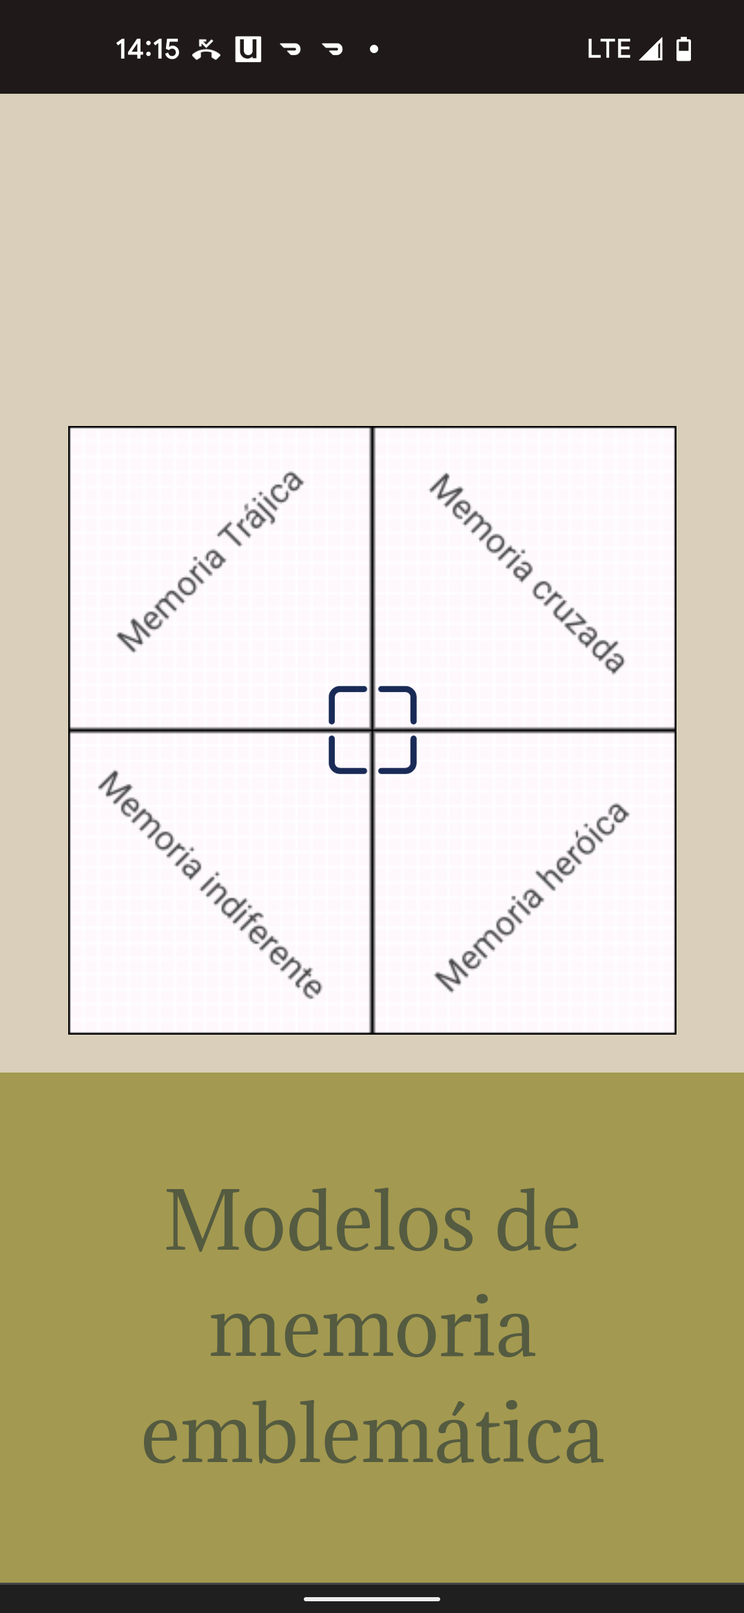
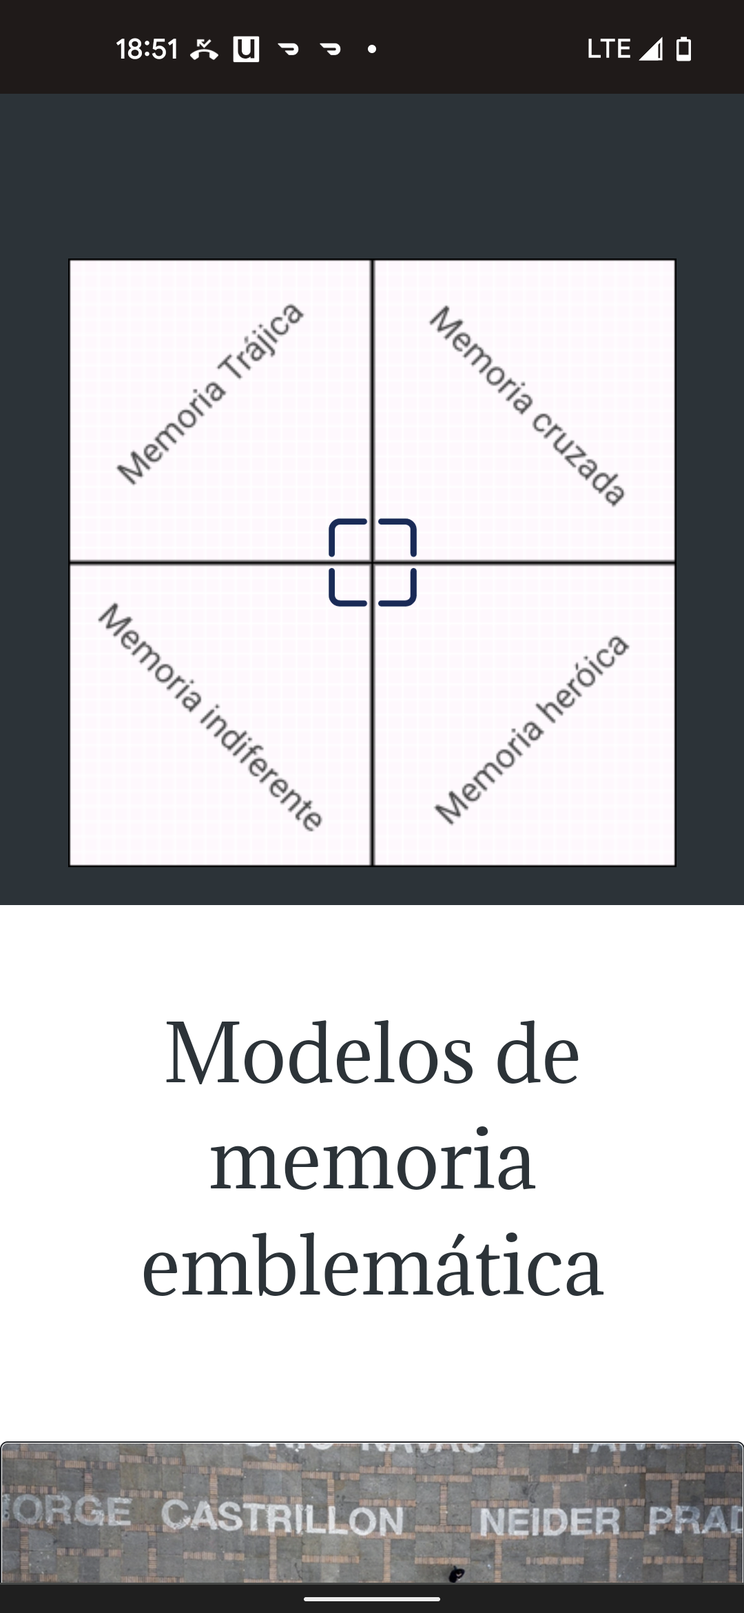
new

diff --git a/index7.html b/index7.html
@@ -19,7 +19,7 @@
 </head>
 
 <body>
-    <header class="header-blue" style="height: 2300px;padding: 0px;color: rgb(219,207,184);background: rgb(219,207,184);">
+    <header class="header-blue" style="height: 2000px;padding: 0px;color: rgb(219,207,184);background: whitesmoke;">
         <nav class="navbar navbar-light navbar-expand-md sticky-top navigation-clean-search" style="background: rgba(250,250,255,0.53);border-style: none;">
             <div class="container-fluid"><a class="navbar-brand" href="index.html" style="font-family: Adamina, serif;background: url(&quot;assets/img/Memorias%20pal%20dialogo%202.png&quot;);height: 60px;color: rgba(255,255,255,0);">Memorias pal diálogo</a><a href="index2.html" style="color: rgb(1,4,10);font-family: Amiri, serif;font-size: 20px;">Test</a>
                 <div class="dropdown"><a class="dropdown-toggle" aria-expanded="false" data-bs-toggle="dropdown" href="#" style="color: rgb(4,4,4);font-family: Amiri, serif;font-size: 20px;">Acerca de</a>
@@ -42,14 +42,14 @@
                 <div class="col-md-6">
                     <h2 style="color: rgb(42,51,57);">¿Cómo llegué aquí?</h2>
                     <header></header>
-                    <p style="color: rgb(82,91,61);">Los individuos que reconocen la responsabilidad del Estado en la violación de derechos humanos y que se inclinan a pensar en que<br> las causas del conflicto armado colombiano están relacionadas con el carácter asocial o violento de las y los colombianos en general, y de los actores armados legales e ilegales en particular, se representan en el modelo de memoria trágica. <br><br><br>&nbsp;<br><br><br><br><br><br><br></p>
+                    <p style="color: rgb(24,20,20);">Los individuos que reconocen la responsabilidad del Estado en la violación de derechos humanos y que se inclinan a pensar en que las causas del conflicto armado colombiano están relacionadas con el carácter asocial o violento de las y los colombianos en general, y de los actores armados legales e ilegales en particular, se representan en el modelo de memoria trágica. &nbsp;</p>
                 </div>
-                <div class="col-md-6"><img src="assets/img/Memoria%20trágica.jpg" style="width: 476px;"></div>
+                <div class="col-md-6"><img src="images\Quebrantos.webp" style="width: 476px;"></div>
             </div>
         </div>
         <div class="container">
             <div class="row">
-                <div class="col-md-12" style="background: rgb(219,207,184);height: 131px;color: rgb(23,19,13);">
+                <div class="col-md-12" style="background: whitesmoke;height: 131px;color: rgb(23,19,13); padding-top: 5rem;">
                     <h2 class="text-center" style="color: rgb(24,20,20);">¿Qué quiere decir?</h2>
                     <p>La memoria trágica da cuenta de una historia de violencia sin cuartel especialmente dirigida contra la población civil donde los detalles sobre la naturaleza de los perpetradores o las causas sociales y económicas subyacentes a los actos violentos ocurridos en el marco del conflicto resultan irrelevantes de cara al desastre, la devastación, y el dolor.<br></p>
                 </div>
@@ -58,21 +58,21 @@
         <div class="container">
             <div class="row">
                 <div class="col-md-6">
-                    <p style="border-color: rgb(21,18,13);color: rgb(11,10,7);">En la memoria trágica la violencia se parece más a un fenómeno<br> natural impersonal que a la acción de agrupaciones humanas claramente identificables. Esto se explica por dos razones. En primer lugar, los actos violentos que sufren las víctimas parecen ser arbitrariedades que solo hablan de la maldad de los violentos. La ausencia de la más mínima consideración por la dignidad de la vida humana, y lo fortuito de los ataques a la población civil solo confirman la irracionalidad y la crueldad que está detrás de las<br> acciones de los armados. En segundo lugar, muchas de las víctimas de la violencia en Colombia nunca saben quién fue el perpetrador, o han sido tocadas por tantas agrupaciones armadas que sentarse a preguntar quién fue el perpetrador puede resultar sencillamente inútil para dar un sentido general a la tragedia.<br></p>
+                    <p style="border-color: rgb(21,18,13);color: rgb(11,10,7); padding-top: 5rem;">En la memoria trágica la violencia se parece más a un fenómeno natural impersonal que a la acción de agrupaciones humanas claramente identificables. Esto se explica por dos razones. En primer lugar, los actos violentos que sufren las víctimas parecen ser arbitrariedades que solo hablan de la maldad de los violentos. La ausencia de la más mínima consideración por la dignidad de la vida humana, y lo fortuito de los ataques a la población civil solo confirman la irracionalidad y la crueldad que está detrás de las acciones de los armados. En segundo lugar, muchas de las víctimas de la violencia en Colombia nunca saben quién fue el perpetrador, o han sido tocadas por tantas agrupaciones armadas que sentarse a preguntar quién fue el perpetrador puede resultar sencillamente inútil para dar un sentido general a la tragedia.</p>
                 </div>
-                <div class="col"><img src="assets/img/imago0095070433w.jpg" style="width: 439px;"></div>
+                <div class="col"><img src="images\Memoria trágica.jpg" style="width: 439px; padding-top: 5rem;"></div>
             </div>
         </div>
         <div class="container">
             <div class="row">
                 <div class="col-md-12">
-                    <p style="color: rgb(16,13,8);">Es posible que la mejor palabra para describir el conflicto armado colombiano desde este modelo de memoria emblemática sea el horror o la tragedia, y que la violencia y sus consecuencias se tomen como un indicador definitivo de la esencia colombiana. En este modelo se reconoce que el Estado colombiano ha jugado un papel claro en la victimización de la población civil, así como los actores armados ilegales. No hay héroes en ninguna parte. De la misma forma no hay una posición política clara en contra del orden social, económico y cultural establecido. Debido a la fuerza de la violencia sobre los cuerpos de las víctimas, o sencillamente porque esos temas no pueden explicar las acciones de los violentos, la memoria trágica asume que el mal es el producto de algún rasgo esencial de lo colombiano. No hay mayor consenso sobre si ese rasgo puede transformarse o no, pero cuando se asume que sí, la justicia en forma de castigos a los violentos y reparaciones a las víctimas se asume como deseable.<br></p>
+                    <p style="color: rgb(16,13,8); padding-top: 5rem;">Es posible que la mejor palabra para describir el conflicto armado colombiano desde este modelo de memoria emblemática sea el horror o la tragedia, y que la violencia y sus consecuencias se tomen como un indicador definitivo de la esencia colombiana. En este modelo se reconoce que el Estado colombiano ha jugado un papel claro en la victimización de la población civil, así como los actores armados ilegales. No hay héroes en ninguna parte. De la misma forma no hay una posición política clara en contra del orden social, económico y cultural establecido. Debido a la fuerza de la violencia sobre los cuerpos de las víctimas, o sencillamente porque esos temas no pueden explicar las acciones de los violentos, la memoria trágica asume que el mal es el producto de algún rasgo esencial de lo colombiano. No hay mayor consenso sobre si ese rasgo puede transformarse o no, pero cuando se asume que sí, la justicia en forma de castigos a los violentos y reparaciones a las víctimas se asume como deseable.<br></p>
                 </div>
-                <div class="col-md-12" style="background: rgb(219,207,184);height: 178px;color: rgb(23,19,13);">
+                <div class="col-md-12" style="background: whitesmoke;height: 178px;color: rgb(23,19,13); padding-top: 5rem;">
                     <h2 class="text-center" style="color: rgb(24,20,20);">¿Quiénes recuerdan el conflicto de esta forma?</h2>
                     <p>Lo más probable es que las personas con experiencias directas con la victimización y sus efectos se puedan sentir identificadas con la memoria trágica como modelo de memoria emblemática. Las víctimas del conflicto, especialmente aquellas que han sido tocadas por más de un solo grupo armado, periodistas que cubren en directo los efectos de los ataques a la población civil, o artistas solidarizados con el dolor de las víctimas pueden ser los representantes más comunes de este tipo de memoria.<br></p>
                 </div>
-                <div class="col-md-12" style="background: rgb(219,207,184);height: 317px;color: rgb(23,19,13);">
+                <div class="col-md-12" style="background: whitesmoke;height: 317px;color: rgb(23,19,13); padding-top: 3rem;">
                     <h2 class="text-center" style="color: rgb(24,20,20);">¿Dónde puedo encontrar los rastros materiales de esta<br> memoria?<br></h2>
                     <p>La memoria trágica se ve representada en múltiples sitios de memoria en Colombia organizados por víctimas de violaciones a los derechos humanos, en los trabajos artistas plásticos y literarios, y en trabajos periodísticos. A continuación, dejamos una lista de sitios donde se pueden encontrar esos rastros materiales:<br></p>
                     <ul>
@@ -99,7 +99,7 @@
                         <h3>Memorias pal diálogo</h3>
                         <p>Aplicación de código abierto sin ánimo de lucro, pero con mucho ánimo de constriur paz en Colombia.</p>
                     </div>
-                    <div class="col item social"><a href="#"><i class="icon ion-social-facebook"></i></a><a href="#"><i class="icon ion-social-twitter"></i></a><a href="#"><i class="icon ion-social-instagram"></i></a></div>
+                    <div class="col item social"><a href="https://twitter.com/chi_initiative"><i class="icon ion-social-twitter"></i></a></div>
                 </div>
                 <p class="copyright">Memorias pal diálogo © 2022</p>
             </div>

diff --git a/index4.html b/index4.html
@@ -19,7 +19,7 @@
 </head>
 
 <body>
-    <header class="header-blue" style="height: 2506px;padding: 0px;color: rgb(219,207,184);background: rgb(219,207,184);">
+    <header class="header-blue" style="height: 2506px;padding: 0px;color: rgb(219,207,184);background: whitesmoke;">
         <nav class="navbar navbar-light navbar-expand-md sticky-top navigation-clean-search" style="background: rgba(250,250,255,0.53);border-style: none;">
             <div class="container-fluid"><a class="navbar-brand" href="index.html" style="font-family: Adamina, serif;background: url(&quot;assets/img/Memorias%20pal%20dialogo%202.png&quot;);height: 60px;color: rgba(255,255,255,0);">Memorias pal diálogo</a><a href="index2.html" style="color: rgb(1,4,10);font-family: Amiri, serif;font-size: 20px;">Test</a>
                 <div class="dropdown"><a class="dropdown-toggle" aria-expanded="false" data-bs-toggle="dropdown" href="#" style="color: rgb(4,4,4);font-family: Amiri, serif;font-size: 20px;">Acerca de</a>
@@ -35,14 +35,14 @@
             </div>
         </nav>
         <div class="container hero">
-            <h1 class="text-center" style="font-family: Adamina, serif;padding: 75px;color: rgb(42,51,57);">La memoria cruzada: Memoria de una violencia estructural<br></h1>
+            <h1 class="text-center" style="font-family: Adamina, serif;padding: 75px;color: rgb(42,51,57);">La memoria heróica: Memoria de salvadores y salvados<br></h1>
         </div>
         <div class="container">
             <div class="row">
                 <div class="col-md-6">
                     <h2 style="color: rgb(42,51,57);">¿Cómo llegué aquí?</h2>
                     <header></header>
-                    <p style="color: rgb(82,91,61);">Las personas que reconocen la responsabilidad del Estado en la violación de derechos humanos y que sugieren que las causas del conflicto armado en Colombia se relacionan con estructuras políticas y económicas injustas que tensionan hasta la rotura el tejido social que posibilita la resolución pacífica de controversias, se representan con el modelo de memoria cruzada. &nbsp;<br><br><br><br><br><br><br></p>
+                    <p style="color: rgb(24,20,20);">Las personas que reconocen la responsabilidad del Estado en la violación de derechos humanos y que sugieren que las causas del conflicto armado en Colombia se relacionan con estructuras políticas y económicas injustas que tensionan hasta la rotura el tejido social que posibilita la resolución pacífica de controversias, se representan con el modelo de memoria cruzada. &nbsp;<br><br><br><br><br><br><br></p>
                 </div>
                 <div class="col-md-6"></div>
             </div>
@@ -56,7 +56,7 @@
         </div>
         <div class="container">
             <div class="row">
-                <div class="col-md-12" style="background: rgb(219,207,184);height: 225px;color: rgb(23,19,13);">
+                <div class="col-md-12" style="background: whitesmoke;height: 225px;color: rgb(23,19,13);">
                     <h2 class="text-center" style="color: rgb(24,20,20);">¿Qué quiere decir?</h2>
                     <p>La memoria cruzada da cuenta de una historia de violencia que es coherente con un estado de cosas injusto en Colombia. Las diferencias entre los actores armados y sus aliados, así como las diferencias entre las víctimas se tienen en cuenta y se cruzan para pintar un cuadro razonable donde las múltiples violencias que afectan al país se pueden asociar con fenómenos estructurales que aseguran el mantenimiento de la injusticia. La violencia no es irracional, es el producto lógico de los intereses de unos cuantos para imponerse sobre las mayorías, ya sea a partir de la exclusión política o económica de determinados sectores de la sociedad colombiana, o a partir de<br> violencia directa sobre los cuerpos de quienes se oponen a los intereses de los poderosos. &nbsp;&nbsp;&nbsp;&nbsp;<br></p>
                 </div>
@@ -74,11 +74,11 @@
                     <p style="border-color: rgb(21,18,13);color: rgb(11,10,7);">La memoria cruzada es sobretodo metropolitana en el sentido de que los elementos que la informan se encuentran con mayor facilidad en espacios urbanos donde la guerra se conoce por sus ecos o por su legado. Sueños de cambio político frustrados por asesinatos selectivos, el encuentro cotidiano con la pobreza o el ensanchamiento de las diferencias entre clases sociales, se pueden asociar claramente a las dinámicas del conflicto armado. En esa medida, el cruce entre los ecos de la violencia lejana, la violencia local, y fenómenos sociales como la pobreza o el distanciamiento cada vez mayor entre los privilegiados y las personas comunes, hacen ver que la violencia es un medio para un fin superior: la injusticia. Sin embargo, este modelo de memoria también se debería poder encontrar en grupos rurales donde la movilización política ha implicado las represalias de grupos paramilitares o del mismo Estado.<br></p>
                     <p style="color: rgb(16,13,8);">Ya debe ser claro que la palabra clave de este modelo de memoria emblemática es la injusticia. Otras palabras relevantes son el<br> privilegio, las estructuras sociales, la arbitrariedad, y hasta la conspiración. En este modelo se reconoce que el Estado colombiano ha jugado un papel claro en la victimización de la población civil, así como los actores armados ilegales. Sin embargo, los actores armados ilegales pueden llegar a ser vistos como una reacción inevitable a la injusticia, y por lo tanto el juicio moral sobre ellos puede llegar a ser más suave que el que se ejerce contra la fuerza pública. A veces es tan suave que parece inexistente. Otro elemento clave de este modelo de memoria es su posición crítica a lo que se denominará el orden político, social, y económico en Colombia, que tiene distintos grados de intensidad. Finalmente, la transformación social y política para la paz es posible, pero requiere un compromiso de largo plazo con reformas estructurales que ataquen las raíces de la injusticia en Colombia. &nbsp;&nbsp;<br></p>
                 </div>
-                <div class="col-md-12" style="background: rgb(219,207,184);height: 178px;color: rgb(23,19,13);">
+                <div class="col-md-12" style="background: whitesmoke;height: 178px;color: rgb(23,19,13);">
                     <h2 class="text-center" style="color: rgb(24,20,20);">¿Quiénes recuerdan el conflicto de esta forma?</h2>
                     <p>No es difícil encontrar este modelo de memoria emblemática entre quienes, por lo menos de forma más o menos sistemática, han<br> estudiado o reflexionado sobre el fenómeno de la violencia en Colombia. Consecuentemente, este es seguramente el modelo de memoria que la gran mayoría de expertos en la violencia colombiana sentirán como propio en mayor o menor medida. Este modelo de memoria emblemática también se debería encontrar con facilidad en grupos y comunidades urbanas y rurales que han sentido los impactos de la violencia política, especialmente a manos de grupos paramilitares o del mismo Estado. &nbsp;&nbsp;&nbsp;&nbsp;<br></p>
                 </div>
-                <div class="col-md-12" style="background: rgb(219,207,184);height: 317px;color: rgb(23,19,13);">
+                <div class="col-md-12" style="background: whitesmoke;height: 317px;color: rgb(23,19,13);">
                     <h2 class="text-center" style="color: rgb(24,20,20);">¿Dónde puedo encontrar los rastros materiales de esta<br> memoria?<br></h2>
                     <p>Este modelo de memoria histórica se encuentra ampliamente representado en la literatura académica sobre la violencia en Colombia. Es más difícil encontrar ese modelo de memoria representado en lugares de memoria como museos o sitios de conmemoración, ya sea porque el Estado no financia con mucha energía aquello que lo critica, o porque el movimiento de víctimas en Colombia es mucho más amplio que el movimiento de víctimas de crímenes de Estado: A continuación, dejamos una lista de sitios donde se pueden encontrar esos rastros materiales:<br></p>
                     <ul>
@@ -95,15 +95,13 @@
                         <h3>Acerca de</h3>
                         <ul>
                             <li><a href="#">Memorias pal diálogo</a></li>
-                            <li><a href="#">Mapenado el recuerdo colombiano</a></li>
-                            <li><a href="#">Contribuciones voluntarias</a></li>
                         </ul>
                     </div>
                     <div class="col-md-6 item text">
                         <h3>Memorias pal diálogo</h3>
                         <p>Aplicación de código abierto sin ánimo de lucro, pero con mucho ánimo de constriur paz en Colombia.</p>
                     </div>
-                    <div class="col item social"><a href="#"><i class="icon ion-social-facebook"></i></a><a href="#"><i class="icon ion-social-twitter"></i></a><a href="#"><i class="icon ion-social-instagram"></i></a></div>
+                    <div class="col item social"><a href="#"><i class="icon ion-social-twitter"></i></a><a href="#"><i class="icon ion-social-instagram"></i></a></div>
                 </div>
                 <p class="copyright">Memorias pal diálogo © 2022</p>
             </div>

diff --git a/index1.html b/index1.html
@@ -39,16 +39,16 @@
         <div class="container">
             <div class="row">
                 <div class="col-md-12">
-                    <p class="text-start" style="color: #525b3d;font-family: Adamina, serif;">Construir paz es un proceso difícil y doloroso, donde los recuerdos de un pasado violento, un presente retador, y un futuro incierto, produce lo que parece ser una mezcla explosiva en países como el nuestro. Esta aplicación busca facilitar la construcción de paz en Colombia desde el diagnóstico de nuestra memoria colectiva sobre el pasado.<br></p>
-                    <p class="text-start" style="color: #525b3d;font-family: Adamina, serif;">Los estudiosos de la memoria colectiva han logrado establecer que los recuerdos son una parte fundamental de cómo nos relacionamos con otras personas en el presente, y cómo queremos construir con ellas el futuro. Por eso mismo, diagnosticar cómo entendemos el pasado es fundamental para imaginar y ejecutar diálogos transformadores con los que podamos edificar una sociedad más amable para todas y todos.<br></p>
-                    <p class="text-start" style="color: #525b3d;font-family: Adamina, serif;">Memorias pal Diálogo es una aplicación que busca interpretar tus ideas sobre el pasado violento colombiano en el marco de cuatro modelos de lo que llamaremos “memorias emblemáticas”. Las memorias emblemáticas es un concepto que tomamos prestado del historiador Steve Stern para hablar de grandes marcos de referencia compartidos que dan un sentido público a las memorias privadas, ya sean estas propias o adquiridas a través de la socialización con nuestros amigos, conocidas, o familiares.<br></p>
-                    <p class="text-start" style="color: #525b3d;font-family: Adamina, serif;">Nuestra visión es que al tomar este test, tengas una mejor idea de dónde estás viniendo cuando piensas y hablas sobre los problemas colombianos relacionados con nuestro sistema político, nuestra sociedad, y la violencia. Creemos que si sabes mejor de dónde vienes, y lo que eso significa, estarás en capacidad de tener diálogos mucho más honestos. Aquí pensamos que en el marco de un diálogo honesto lo que importa no es tener la razón, sino transformar el mundo para bien, incluyéndonos a nosotros mismos.<br></p>
-                    <p class="text-start" style="color: #525b3d;font-family: Adamina, serif;">Se parte de una conversación sobre nuestro país, sobre lo que lo ha constituido, y sobre las opciones que tenemos para construir entre todos y todas una mejor sociedad. Dialoguemos desde nuestra memoria y abrámonos a las que tienen nuestras vecinas y sus amigos, o nuestros parceros de la universidad y del colegio. &nbsp;&nbsp;&nbsp;&nbsp;&nbsp;<br></p>
+                    <p class="text-start" style="color: whitesmoke;font-family: Adamina, serif;">Construir paz es un proceso difícil y doloroso, donde los recuerdos de un pasado violento, un presente retador, y un futuro incierto, produce lo que parece ser una mezcla explosiva en países como el nuestro. Esta aplicación busca facilitar la construcción de paz en Colombia desde el diagnóstico de nuestra memoria colectiva sobre el pasado.<br></p>
+                    <p class="text-start" style="color: whitesmoke;font-family: Adamina, serif;">Los estudiosos de la memoria colectiva han logrado establecer que los recuerdos son una parte fundamental de cómo nos relacionamos con otras personas en el presente, y cómo queremos construir con ellas el futuro. Por eso mismo, diagnosticar cómo entendemos el pasado es fundamental para imaginar y ejecutar diálogos transformadores con los que podamos edificar una sociedad más amable para todas y todos.<br></p>
+                    <p class="text-start" style="color: whitesmoke;font-family: Adamina, serif;">Memorias pal Diálogo es una aplicación que busca interpretar tus ideas sobre el pasado violento colombiano en el marco de cuatro modelos de lo que llamaremos “memorias emblemáticas”. Las memorias emblemáticas es un concepto que tomamos prestado del historiador Steve Stern para hablar de grandes marcos de referencia compartidos que dan un sentido público a las memorias privadas, ya sean estas propias o adquiridas a través de la socialización con nuestros amigos, conocidas, o familiares.<br></p>
+                    <p class="text-start" style="color: whitesmoke;font-family: Adamina, serif;">Nuestra visión es que al tomar este test, tengas una mejor idea de dónde estás viniendo cuando piensas y hablas sobre los problemas colombianos relacionados con nuestro sistema político, nuestra sociedad, y la violencia. Creemos que si sabes mejor de dónde vienes, y lo que eso significa, estarás en capacidad de tener diálogos mucho más honestos. Aquí pensamos que en el marco de un diálogo honesto lo que importa no es tener la razón, sino transformar el mundo para bien, incluyéndonos a nosotros mismos.<br></p>
+                    <p class="text-start" style="color: whitesmoke;font-family: Adamina, serif;">Se parte de una conversación sobre nuestro país, sobre lo que lo ha constituido, y sobre las opciones que tenemos para construir entre todos y todas una mejor sociedad. Dialoguemos desde nuestra memoria y abrámonos a las que tienen nuestras vecinas y sus amigos, o nuestros parceros de la universidad y del colegio. &nbsp;&nbsp;&nbsp;&nbsp;&nbsp;<br></p>
                     <br> <!--This is my way of creating space between the divs, or of adding blank space between two containers-->   
                     <br>
                     <br>
                     <br> 
-                    <a href="index3.html"><button class="btn btn-light btn-lg action-button" type="button" style="border: 1px solid #9f4a31; font-family: Adamina, serif;font-size: 17px; color:#2a3339;">Sobre cómo funciona la aplicación</button></a> 
+                    <a href="index3.html"><button class="btn btn-light btn-lg action-button" type="button" style="border: 1px solid beige; font-family: Adamina, serif;font-size: 17px; color:whitesmoke;">Sobre cómo funciona la aplicación</button></a> 
                     <br>
                     <br>
                     <br> 

diff --git a/index.html b/index.html
@@ -42,7 +42,7 @@
                     <p style="font-family: Adamina, serif;font-size: 15px;">Memorias pal diálogo ofrece una aplicación que puede ser usada por educadores o constructores de paz para facilitar conversaciones transformadoras a partir de la identificación de los modelos de memoria emblemática que individuos colombianos tienen sobre el conflicto. Esta aplicación se construye sobre trabajos académicos prestigiosos que discuten la memoria histórica en America Latina y en Colombia desde una perspectiva pluralista y decididamente orientada a la generación de diálogos improbables.&nbsp;&nbsp;</p><a href="index2.html"><button class="btn btn-light btn-lg float-end action-button" type="button" style="height: 49.6px;margin: 0px;width: 153.45px;font-family: Adamina, serif;font-size: 15px;border-radius: 38px;color: white;background: #2a3339;">Toma el test!</button></a><a href="index1.html"><button class="btn btn-light btn-lg action-button" type="button" style="font-family: Adamina, serif;font-size: 17px;">Aprende más</button></a>
                 </div>
                 <div class="col-md-5 col-lg-5 offset-lg-1 offset-xl-0 d-none d-lg-block phone-holder" style="padding: 62px;">
-                    <div class="phone-mockup" style="padding: 0px;height: 668.287px;"><img class="device" src="assets\img\phone.svg" style="background: url(assets/img/Apropiado.jpg) center / contain;border-top-left-radius: 40px;border-top-right-radius: 40px;border-bottom-right-radius: 40px;border-bottom-left-radius: 40px;width: 342.325px;">
+                    <div class="phone-mockup" style="padding: 0px;height:665px;"><img class="device" src="assets\img\phone.svg" style="background: url(assets\img\Pantallazo.png) center / contain;border-top-left-radius: 40px;border-top-right-radius: 40px;border-bottom-right-radius: 40px;border-bottom-left-radius: 40px;width: 342.325px;">
                         <div class="screen"></div>
                     </div>
                 </div>
@@ -54,20 +54,20 @@
                 <div class="row features">
                     <div class="col-sm-6 col-md-4 item"><i class="fa fa-map-marker icon" style="color: #9f4a31;"></i>
                         <h3 class="name" style="font-family: Adamina, serif;">Funciona en todas partes!</h3>
-                        <p class="description" style="color: #2a3339);font-family: Adamina, serif;">Mientras haya accesso a internet y a un dispositivo informático, Memorias pal diálogo puede utilizarse en cualquier parte para iniciar una conversación sobre nuestro pasado y el futuro al que debemos apuntar.</p>
+                        <p class="description" style="color: #2a3339;font-family: Adamina, serif;">Mientras haya accesso a internet y a un dispositivo informático, Memorias pal diálogo puede utilizarse en cualquier parte para iniciar una conversación sobre nuestro pasado y el futuro al que debemos apuntar.</p>
                     </div>
                     <div class="col-sm-6 col-md-4 item"><i class="fa fa-clock-o icon" style="color: #9f4a31;"></i>
                         <h3 class="name" style="font-family: Adamina, serif;">Se actualiza</h3>
-                        <p class="description" style="color: #2a3339);font-family: Adamina, serif;">Memorias pal diálogo es parte de un proyecto en humanidades digitales que se actualiza a partir de conversaciones académicas, nuevos hallazgos, y la respuesta de la comunidad de usuarios.</p>
+                        <p class="description" style="color: #2a3339;font-family: Adamina, serif;">Memorias pal diálogo es parte de un proyecto en humanidades digitales que se actualiza a partir de conversaciones académicas, nuevos hallazgos, y la respuesta de la comunidad de usuarios.</p>
                     </div>
                     <div class="col-sm-6 col-md-4 item"><i class="fa fa-list-alt icon" style="color: #9f4a31;"></i>
                         <h3 class="name" style="font-family: Adamina, serif;">Código abierto</h3>
-                        <p class="description" style="color: #2a3339);font-family: Adamina, serif;">Crees que esta aplicación se puede mejorar, o que podrías utilizar el codigo base para hacer algo distinto? No hay problema! Esta aplicación se elaboró con un código abierto que seguirá abierto para todo público.</p>
+                        <p class="description" style="color: #2a3339;font-family: Adamina, serif;">Crees que esta aplicación se puede mejorar, o que podrías utilizar el codigo base para hacer algo distinto? No hay problema! Esta aplicación se elaboró con un código abierto que seguirá abierto para todo público.</p>
                     </div>
                     <div class="col-sm-6 col-md-4 item"></div>
                     <div class="col-sm-6 col-md-4 item"><i class="fas fa-hands-helping icon" style="color: #9f4a31;"></i>
                         <h3 class="name" style="font-family: Adamina, serif;">Créditos</h3>
-                        <p class="description" style="color: #2a3339);font-family: Adamina, serif;">Agradecemos a Kim Turley por compartir con la comunidad de programadores y ciudadanos del mundo su código de la aplicación political-compass. Dicho código es la base de Memorias pal diálogo. También agradecemos a Sari Sadiya por sus aportes al apartado visual de la aplicación Memorias pal diálogo</p>
+                        <p class="description" style="color: #2a3339;font-family: Adamina, serif;">Agradecemos a Kim Turley por compartir con la comunidad de programadores y ciudadanos del mundo su código de la aplicación political-compass. Dicho código es la base de Memorias pal diálogo. También agradecemos a Sari Sadiya por sus aportes al apartado visual de la aplicación Memorias pal diálogo</p>
                     </div>
                 </div>
             </div>

diff --git a/index3.html b/index3.html
@@ -89,25 +89,25 @@
                                 <div class="col-sm-6 col-md-5 col-lg-4 item">
                                     <div class="box">
                                         <h3 class="name">Memoria trágica</h3>
-                                        <p class="text-start description">Los individuos que reconocen la responsabilidad del Estado en la violación de derechos humanos y que sugieren que las causas del conflicto armado colombiano están relacionadas con el carácter asocial o violento de las y los colombianos en general, se representan en el modelo de memoria trágica. <br><br><br></p><a class="learn-more" href="#">Learn more »</a>
+                                        <p class="text-start description">Los individuos que reconocen la responsabilidad del Estado en la violación de derechos humanos y que sugieren que las causas del conflicto armado colombiano están relacionadas con el carácter asocial o violento de las y los colombianos en general, se representan en el modelo de memoria trágica. <br><br><br></p><a class="learn-more" href="index7.html">Memoria de una violencia irracional »</a>
                                     </div>
                                 </div>
                                 <div class="col-sm-6 col-md-5 col-lg-4 item">
                                     <div class="box">
                                         <h3 class="name">Memoria cruzada</h3>
-                                        <p class="text-start description">Las personas que reconocen la responsabilidad del Estado en la violación de derechos humanos y que sugieren que las causas del conflicto armado en Colombia se relacionan con estructuras políticas y económicas injustas que facilitan o producen comportamientos violentos, se representan en el modelo de <strong>memoria cruzada</strong>. <br><br><br></p><a class="learn-more" href="#">Learn more »</a>
+                                        <p class="text-start description">Las personas que reconocen la responsabilidad del Estado en la violación de derechos humanos y que sugieren que las causas del conflicto armado en Colombia se relacionan con estructuras políticas y económicas injustas que facilitan o producen comportamientos violentos, se representan en el modelo de <strong>memoria cruzada</strong>. <br><br><br></p><a class="learn-more" href="index6.html">Memoria de una violencia estructural »</a>
                                     </div>
                                 </div>
                                 <div class="col-sm-6 col-md-5 col-lg-4 item">
                                     <div class="box">
                                         <h3 class="name">Memoria indiferente</h3>
-                                        <p class="text-start description">Las personas que asumen que el Estado no es responsable de violaciones de derechos<br>humanos, o que asumiéndolo sienten que de todas formas el Estado no es equiparable<br>a otros actores del conflicto, y que además creen que la violencia política en Colombia está relacionada con el carácter asocial o violento de los colombianos, se representan en el modelo de memoria indiferente. <br><br><br></p><a class="learn-more" href="#">Learn more »</a>
+                                        <p class="text-start description">Las personas que asumen que el Estado no es responsable de violaciones de derechos<br>humanos, o que asumiéndolo sienten que de todas formas el Estado no es equiparable<br>a otros actores del conflicto, y que además creen que la violencia política en Colombia está relacionada con el carácter asocial o violento de los colombianos, se representan en el modelo de memoria indiferente. <br><br><br></p><a class="learn-more" href="index5.html">Memoria suelta »</a>
                                     </div>
                                 </div>
                                 <div class="col-sm-6 col-md-5 col-lg-4 item">
                                     <div class="box">
                                         <h3 class="name">Memoria heróica</h3>
-                                        <p class="text-start description">Los individuos que perciben que el Estado no es responsable de violaciones de derechos humanos, o que su implicación en dichas violaciones no es tan grave como la de otros actores armados, y que creen que las causas del conflicto armado en Colombia se relacionan con estructuras políticas y<br>económicas injustas que facilitan o producen comportamientos violentos, se<br>representan en el modelo de memoria heroica.&nbsp;</p><a class="learn-more" href="#">Learn more »</a>
+                                        <p class="text-start description">Los individuos que perciben que el Estado no es responsable de violaciones de derechos humanos, o que su implicación en dichas violaciones no es tan grave como la de otros actores armados, y que creen que las causas del conflicto armado en Colombia se relacionan con estructuras políticas y<br>económicas injustas que facilitan o producen comportamientos violentos, se<br>representan en el modelo de memoria heroica.&nbsp;</p><a class="learn-more" href="index4.html">Memoria de salvadores y salvados»</a>
                                     </div>
                                 </div>
                             </div>

diff --git a/index5.html b/index5.html
@@ -19,7 +19,7 @@
 </head>
 
 <body>
-    <header class="header-blue" style="height: 2506px;padding: 0px;color: rgb(219,207,184);background: rgb(219,207,184);">
+    <header class="header-blue" style="height: 2506px;padding: 0px;color: rgb(219,207,184);background: whitesmoke;">
         <nav class="navbar navbar-light navbar-expand-md sticky-top navigation-clean-search" style="background: rgba(250,250,255,0.53);border-style: none;">
             <div class="container-fluid"><a class="navbar-brand" href="index.html" style="font-family: Adamina, serif;background: url(&quot;assets/img/Memorias%20pal%20dialogo%202.png&quot;);height: 60px;color: rgba(255,255,255,0);">Memorias pal diálogo</a><a href="index2.html" style="color: rgb(1,4,10);font-family: Amiri, serif;font-size: 20px;">Test</a>
                 <div class="dropdown"><a class="dropdown-toggle" aria-expanded="false" data-bs-toggle="dropdown" href="#" style="color: rgb(4,4,4);font-family: Amiri, serif;font-size: 20px;">Acerca de</a>
@@ -35,7 +35,7 @@
             </div>
         </nav>
         <div class="container hero">
-            <h1 class="text-center" style="font-family: Adamina, serif;padding: 75px;color: rgb(42,51,57);">La memoria cruzada: Memoria de una violencia estructural<br></h1>
+            <h1 class="text-center" style="font-family: Adamina, serif;padding: 75px;color: rgb(42,51,57);">Memoria indiferente: Memoria suelta<br></h1>
         </div>
         <div class="container">
             <div class="row">

diff --git a/index6.html b/index6.html
@@ -19,7 +19,7 @@
 </head>
 
 <body>
-    <header class="header-blue" style="height: 2506px;padding: 0px;color: rgb(219,207,184);background: rgb(219,207,184);">
+    <header class="header-blue" style="height: 2506px;padding: 0px;color: rgb(219,207,184);background: whitesmoke;">
         <nav class="navbar navbar-light navbar-expand-md sticky-top navigation-clean-search" style="background: rgba(250,250,255,0.53);border-style: none;">
             <div class="container-fluid"><a class="navbar-brand" href="index.html" style="font-family: Adamina, serif;background: url(&quot;assets/img/Memorias%20pal%20dialogo%202.png&quot;);height: 60px;color: rgba(255,255,255,0);">Memorias pal diálogo</a><a href="index2.html" style="color: rgb(1,4,10);font-family: Amiri, serif;font-size: 20px;">Test</a>
                 <div class="dropdown"><a class="dropdown-toggle" aria-expanded="false" data-bs-toggle="dropdown" href="#" style="color: rgb(4,4,4);font-family: Amiri, serif;font-size: 20px;">Acerca de</a>
